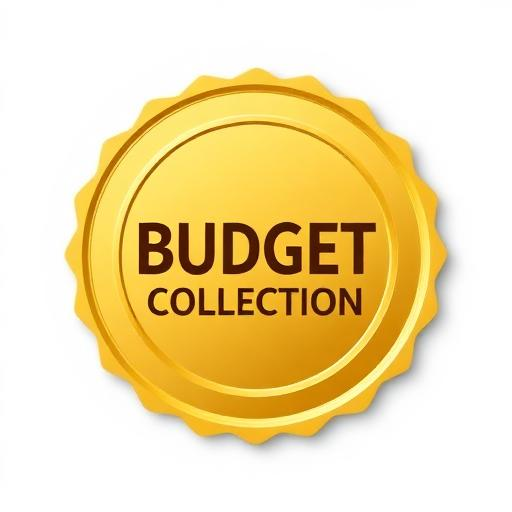
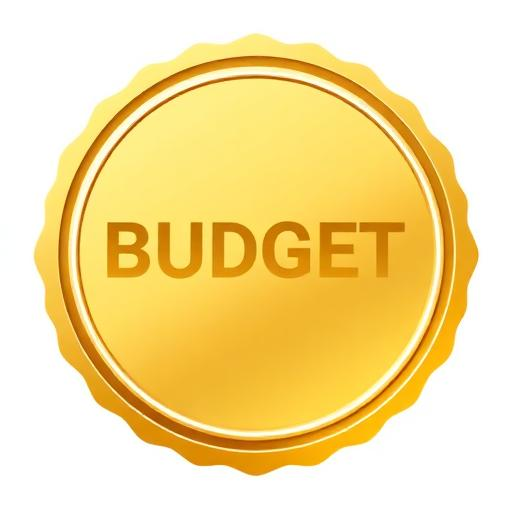
Refine Home page and lottery cards
Updated Home page and lottery card components based on the latest plan. This includes:
- Using transparent PNGs for tier badges.
- Removing overlay text from badges and tier text from section headings.
- Making the top-center price badge circular.
- Removing tier tags from game ticket cards.
- Setting the ticket image/card aspect ratio to 16:9 on mobile devices and increasing padding for a larger visual presence.

diff --git a/src/pages/Home.tsx b/src/pages/Home.tsx
@@ -430,8 +430,8 @@ export default function Home() {
                   <div key={price} className={`relative p-8 rounded-3xl bg-gradient-to-br ${sectionTheme.gradient} border-2 ${sectionTheme.border} overflow-hidden`}>
                     {/* Price Display - Top Center */}
                     <div className="absolute top-4 left-1/2 transform -translate-x-1/2 z-20">
-                      <div className={`px-6 py-3 rounded-full ${sectionTheme.badge} shadow-lg`}>
-                        <span className="text-white font-bold text-xl">₹{price}</span>
+                      <div className={`w-16 h-16 md:w-20 md:h-20 rounded-full flex items-center justify-center shadow-lg ${sectionTheme.badge}`}>
+                        <span className="text-white font-bold text-lg md:text-xl leading-none">₹{price}</span>
                       </div>
                     </div>
 
@@ -443,11 +443,6 @@ export default function Home() {
                           alt={`${sectionTitle} badge`} 
                           className="w-full h-full object-contain drop-shadow-lg" 
                         />
-                        <div className="absolute inset-0 flex items-center justify-center">
-                          <span className="text-[8px] font-bold text-center leading-none text-white drop-shadow-md px-1 break-words">
-                            {sectionTitle.replace(' ', '\n')}
-                          </span>
-                        </div>
                       </div>
                     </div>
 
@@ -456,13 +451,7 @@ export default function Home() {
                       <div className="absolute top-4 left-4 text-6xl opacity-30">{sectionTheme.icon}</div>
                     </div>
                     
-                    <div className="relative z-10 text-center mb-8 mt-16">
-                      <div className={`text-3xl font-bold ${sectionTheme.title} mb-2`}>
-                        {sectionTitle}
-                      </div>
-                    </div>
-                    
-                    <div className="relative z-10 grid md:grid-cols-2 lg:grid-cols-3 gap-6">
+                    <div className="relative z-10 grid md:grid-cols-2 lg:grid-cols-3 gap-6 mt-16">
                       {games.map((game) => (
                         <LotteryCard
                           key={game.id}

diff --git a/src/components/lottery-card.tsx b/src/components/lottery-card.tsx
@@ -86,26 +86,9 @@ export function LotteryCard({
       className={`overflow-hidden transition-all duration-300 group cursor-pointer md:hover:scale-105 ${themeClasses.card}`}
       onClick={() => onViewDetails(id)}
     >
-      {/* Special Badge for themed cards */}
-      {theme !== 'default' && (
-        <div className="absolute top-2 right-2 z-10">
-          <div className={`px-2 py-1 rounded-full text-xs font-bold text-white ${
-            theme === 'tier-100' ? 'bg-red-500' :
-            theme === 'tier-500' ? 'bg-blue-500' :
-            theme === 'tier-1000' ? 'bg-purple-500' :
-            'bg-green-500'
-          }`}>
-            {theme === 'tier-100' ? 'STARTER' :
-             theme === 'tier-500' ? 'PREMIUM' :
-             theme === 'tier-1000' ? 'ELITE' :
-             'SPECIAL'}
-          </div>
-        </div>
-      )}
-
-      {/* Ticket Image - 4:3 Aspect Ratio on mobile, 16:9 on desktop */}
+      {/* Ticket Image - 16:9 Aspect Ratio */}
       {ticketImageUrl && (
-        <div className="aspect-[4/3] md:aspect-video overflow-hidden bg-muted relative">
+        <div className="aspect-video overflow-hidden bg-muted relative">
           <img 
             src={ticketImageUrl} 
             alt={`${title} ticket`}
@@ -114,7 +97,7 @@ export function LotteryCard({
         </div>
       )}
       
-      <CardContent className="p-3 md:p-4">
+      <CardContent className="p-4">
         {/* Single row with game date, price, and availability */}
         <div className="flex items-center justify-between gap-2 text-xs md:text-sm">
           {/* Game Date */}
